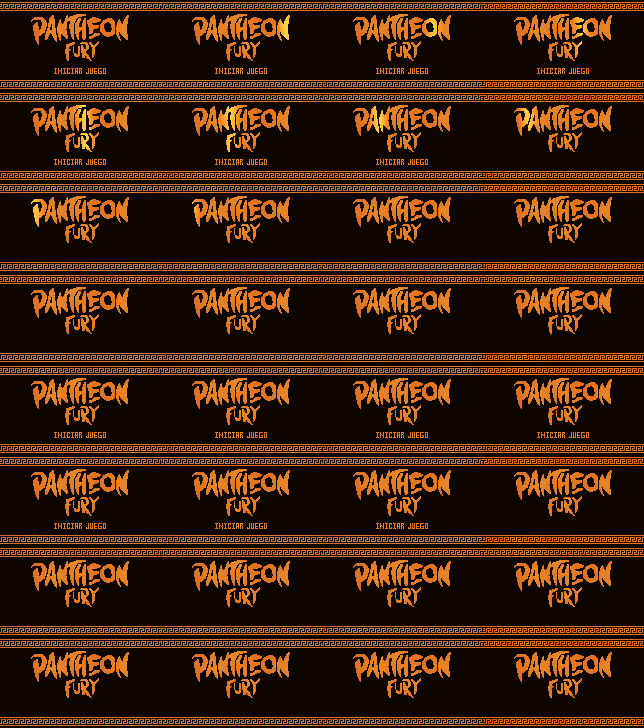
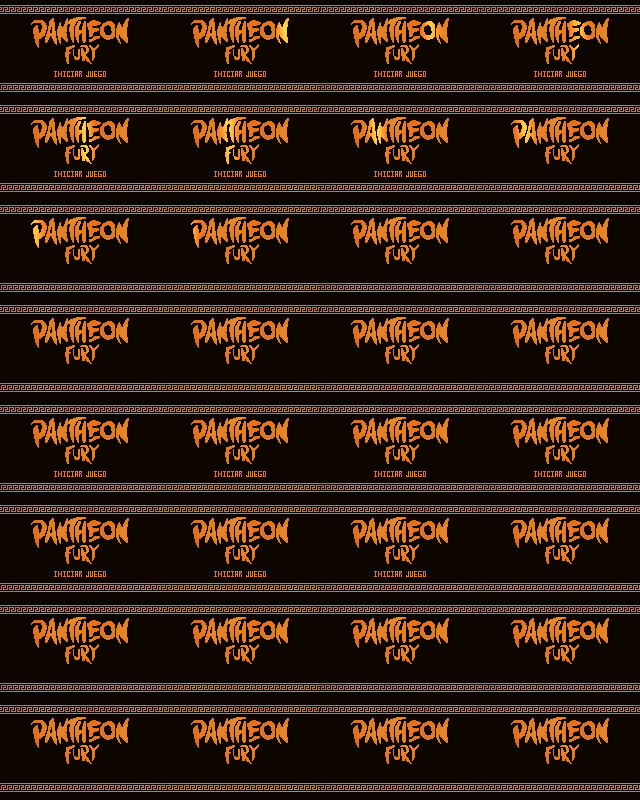
pixel prueba 2

diff --git a/game.js b/game.js
@@ -7,7 +7,7 @@ class InicioJuego extends Phaser.Scene {
 
     preload() {
         // Cargar la imagen para el background
-        this.load.spritesheet('background', 'assets/FONDO_INICIO.png', { frameWidth: 161, frameHeight: 91 });
+        this.load.spritesheet('background', 'assets/FONDO_INICIO.png', { frameWidth: 160, frameHeight: 100 });
     }
 
     create() {
@@ -15,8 +15,8 @@ class InicioJuego extends Phaser.Scene {
         this.cameras.main.setBackgroundColor('#000');
 
         // Calcular la escala para ajustar el fondo al tamaño del canvas
-        const scaleX = this.sys.game.canvas.width / 161;
-        const scaleY = this.sys.game.canvas.height / 91;
+        const scaleX = this.sys.game.canvas.width / 160;
+        const scaleY = this.sys.game.canvas.height / 100;
         const scale = Math.max(scaleX, scaleY);
 
         // Añadir el background y hacer que se reproduzca en bucle
@@ -898,8 +898,8 @@ showTurnOverlay() {
 
 const config = {
     type: Phaser.WEBGL,
-    width: 161,
-    height: 91,
+    width: 160,
+    height: 100,
     parent: 'game',
     pixelArt: true,
     scale: {
